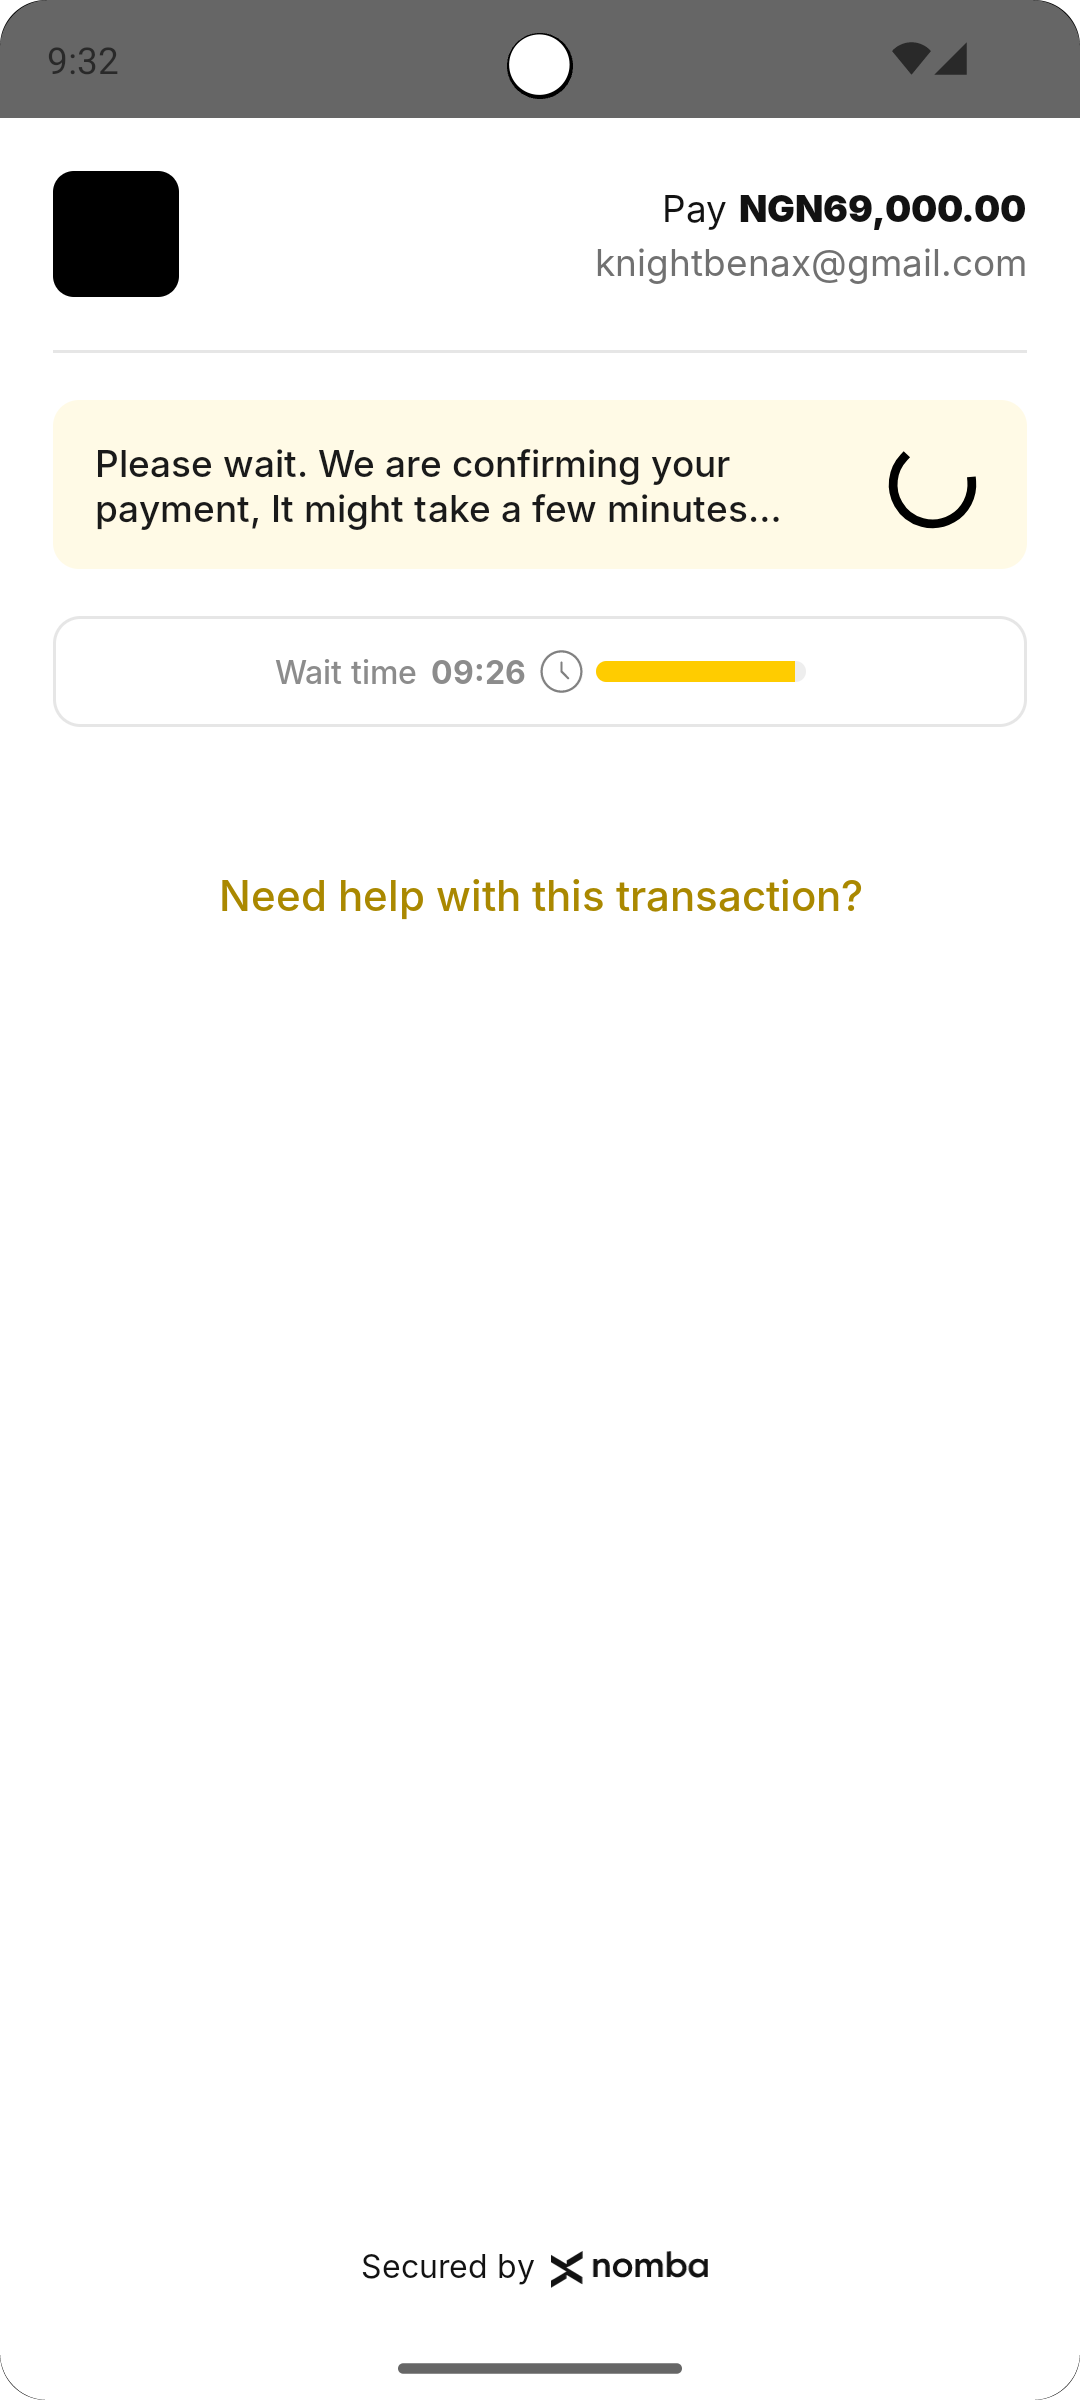
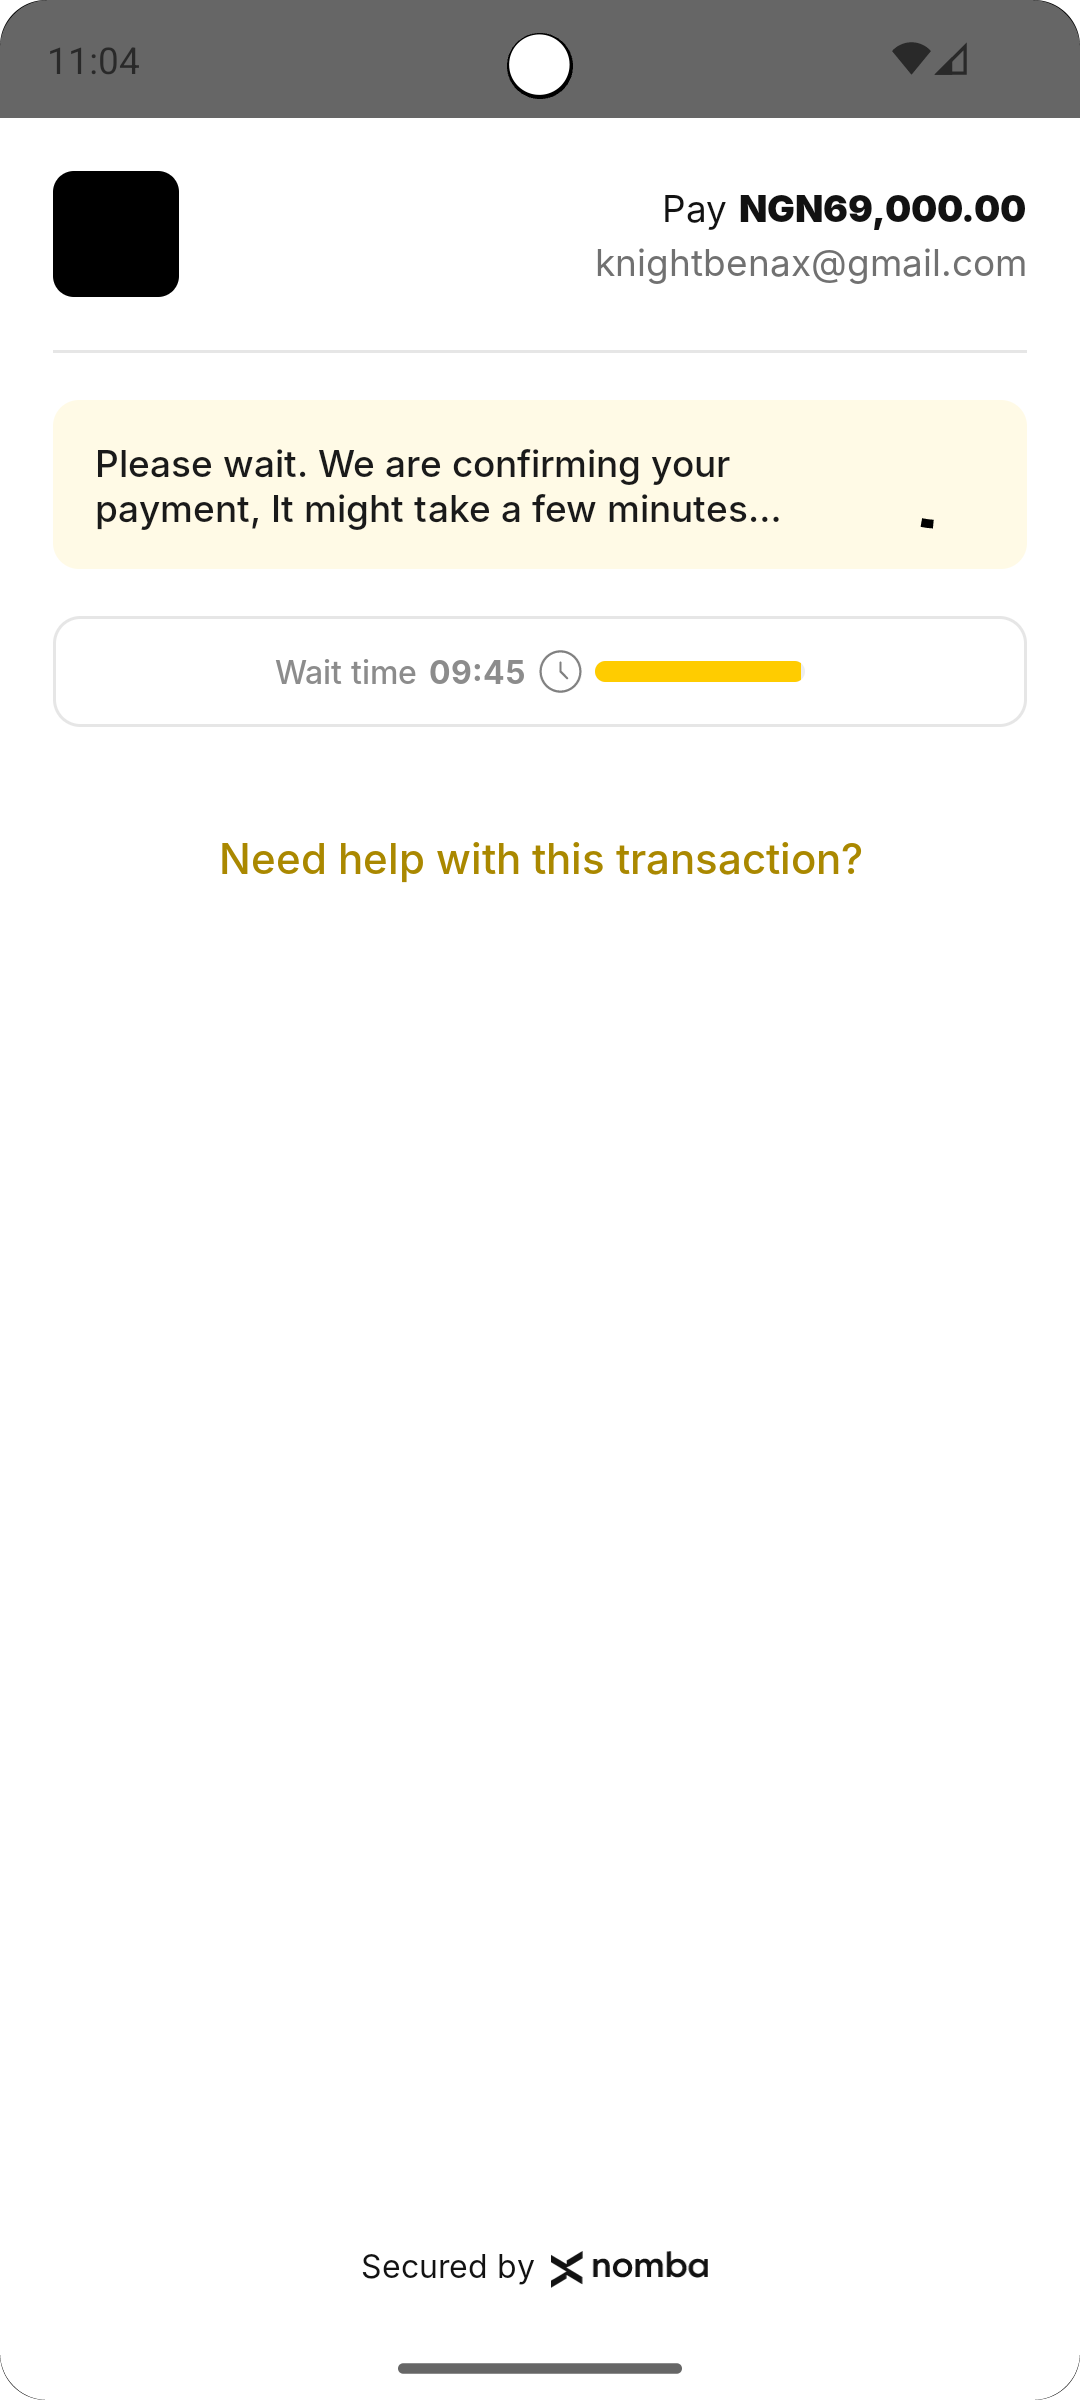
Second Confirmation View

diff --git a/wraith/src/main/java/com/nomba/wraith/ui/shelters/transfer/ConfirmingTransferShelter.kt b/wraith/src/main/java/com/nomba/wraith/ui/shelters/transfer/ConfirmingTransferShelter.kt
@@ -25,6 +25,14 @@ class ConfirmingTransferShelter(private var manager: NombaManager, activityConfi
         confirmationTimer = manager.utils.createTimer(confirmationTime, ::onConfirmationTransferTick, ::onConfirmationTransferEnd)
         confirmationTimer.start()
         layout().waitingForConfirmationProgress.max = confirmationTime.toInt()
+        layout().tryAgainBtn.setOnClickListener {
+            if (manager.displayViewState == DisplayViewState.TRANSFER_CONFIRMATION) {
+                manager.displayViewState = DisplayViewState.TRANSFER_CONFIRMATION_INNER_ONE
+                setUpSecondConfirmationScreen()
+            } else {
+                manager.displayViewState = DisplayViewState.TRANSFER_CONFIRMATION_INNER_TWO
+            }
+        }
     }
 
     private fun onConfirmationTransferTick(millisUntilFinished: Long){
@@ -62,12 +70,23 @@ class ConfirmingTransferShelter(private var manager: NombaManager, activityConfi
 
         layout().helpButton.visibility = View.GONE
         layout().buttonHolder.visibility = View.VISIBLE
+
+
     }
 
-    private fun secondConfirmationEnded(){
-        layout().timeElaspedLabel.text = manager.activity.get()?.getString(R.string.time_elapsed)
+    private fun setUpSecondConfirmationScreen(){
+        layout().waitingHolder.visibility = View.GONE
         layout().waitingForConfirmationProgress.progress = 0
         layout().waitingForConfirmationTimerView.visibility = View.GONE
+
+        layout().topContentHolder.background =
+            manager.activity.get()?.let {
+                ContextCompat.getDrawable(it, R.drawable.warning_bg) }
+
+        layout().staticProgress.visibility = View.VISIBLE
+        layout().contentLabel.text = manager.activity.get()?.let {
+            ContextCompat.getString(it, R.string.longer_than_expected)
+        }
     }
 
     override fun hideShelter() {

diff --git a/wraith/src/main/java/com/nomba/wraith/core/NombaManager.kt b/wraith/src/main/java/com/nomba/wraith/core/NombaManager.kt
@@ -145,7 +145,8 @@ open class NombaManager private constructor (var activity: WeakReference<Activit
 
             }
 
-            DisplayViewState.DIALOG -> TODO()
+            DisplayViewState.TRANSFER_CONFIRMATION_INNER_ONE -> TODO()
+            DisplayViewState.TRANSFER_CONFIRMATION_INNER_TWO -> TODO()
         }
     }
 

diff --git a/wraith/src/main/java/com/nomba/wraith/core/DisplayViewState.kt b/wraith/src/main/java/com/nomba/wraith/core/DisplayViewState.kt
@@ -1,5 +1,5 @@
 package com.nomba.wraith.core
 
 enum class DisplayViewState {
-    PAYMENTOPTIONS, TRANSFER, TRANSFER_CONFIRMATION, DIALOG
+    PAYMENTOPTIONS, TRANSFER, TRANSFER_CONFIRMATION, TRANSFER_CONFIRMATION_INNER_ONE, TRANSFER_CONFIRMATION_INNER_TWO
 }
